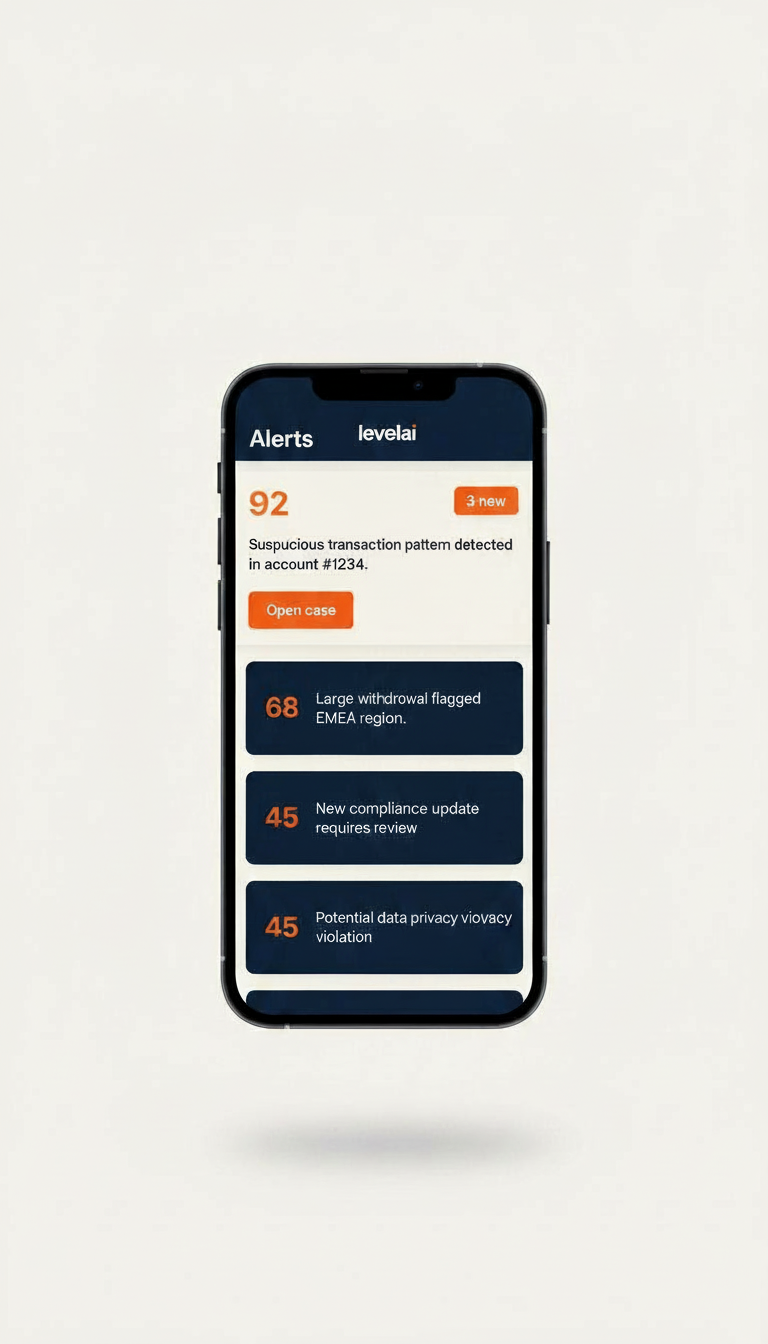
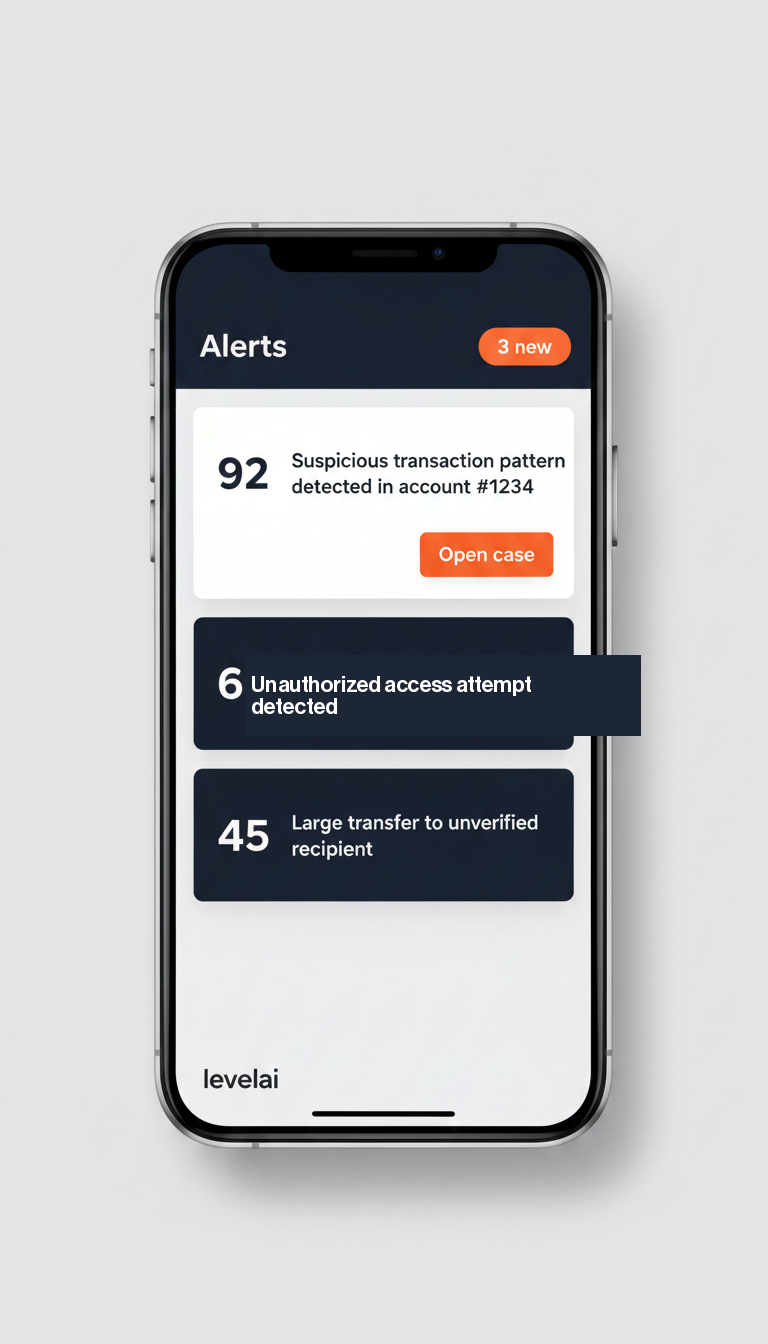
Add Vectorgurus case study and drop yellow tint from Leveai mockups
Add case-vectorgurus.html with hero, overview, metrics, four feature
sections and a quote, telling the story of the AI + human routing
engine, Illustrator delivery pipeline, unified customer chat, and
studio analytics we built for the platform. Promote the Vectorgurus
card on work.html to link into the case, and register the URL in
sitemap.xml.

Regenerate all four Leveai case study mockups on a neutral gray
studio background instead of the earlier cream — the warm off-white
inherited from the LevelAI Figma reference read as a yellow tint next
to the rest of the site chrome.

Both sets of mockups generated with google/nano-banana on Replicate,
brand-color-tuned per case (LevelAI navy + orange, Vectorgurus violet
+ magenta), with residual UI-text spelling errors patched in Pillow
using the self-hosted Neue Haas Grotesk Display faces.

diff --git a/case-vectorgurus.html b/case-vectorgurus.html
@@ -1,0 +1,240 @@
+<!DOCTYPE html>
+<html lang="en">
+<head>
+    <meta charset="UTF-8">
+    <meta name="viewport" content="width=device-width, initial-scale=1.0">
+    <title>Vectorgurus Case Study &mdash; Epimer Labs</title>
+    <meta name="description" content="How we built the AI + human routing engine, delivery pipeline, and analytics that scaled Vectorgurus into a raster-to-vector platform run by both machines and master illustrators.">
+    <meta property="og:title" content="Vectorgurus Case Study &mdash; Epimer Labs">
+    <meta property="og:description" content="How we built the AI + human routing engine, delivery pipeline, and analytics that scaled Vectorgurus into a raster-to-vector platform run by both machines and master illustrators.">
+    <meta property="og:image" content="https://www.epimerlabs.com/images/logo-icon.svg">
+    <link rel="canonical" href="https://www.epimerlabs.com/case-vectorgurus.html">
+    <meta property="og:url" content="https://www.epimerlabs.com/case-vectorgurus.html">
+    <meta property="og:type" content="article">
+    <link rel="icon" type="image/svg+xml" href="images/favicon.svg">
+    <link rel="apple-touch-icon" sizes="180x180" href="images/apple-touch-icon.png">
+    <link rel="manifest" href="site.webmanifest">
+    <link rel="stylesheet" href="css/styles.css">
+</head>
+<body>
+    <!-- Navigation -->
+    <nav class="navbar navbar-dark">
+        <div class="container">
+            <a href="index.html" class="logo"><img src="images/logo-lockup-white.svg" alt="Epimer Labs" class="logo-lockup"></a>
+            <button class="menu-toggle" id="menuToggle" aria-label="Toggle menu"><span></span><span></span><span></span></button>
+            <ul class="nav-menu" id="navMenu">
+                <li><a href="work.html" class="active">Work</a></li>
+                <li><a href="services.html">Services</a></li>
+                <li><a href="about.html">About</a></li>
+                <li><a href="insights.html">Insights</a></li>
+                <li><a href="contact.html" class="nav-cta">Let's Collaborate</a></li>
+            </ul>
+        </div>
+    </nav>
+
+    <!-- Case Hero -->
+    <section class="case-hero">
+        <div class="container">
+            <div class="reveal">
+                <span class="case-hero-overline">Case Study &nbsp;/&nbsp; Vectorgurus</span>
+                <h1>How we built the AI plus human routing engine that turned Vectorgurus into a raster-to-vector platform run by both machines and master illustrators</h1>
+                <span class="case-hero-industry">Industry &mdash; Creative software, on-demand illustration</span>
+                <div class="case-meta-chips">
+                    <span class="case-chip">Product Strategy</span>
+                    <span class="case-chip">ML &amp; Vision</span>
+                    <span class="case-chip">Full-stack Build</span>
+                    <span class="case-chip">Analytics</span>
+                </div>
+            </div>
+        </div>
+    </section>
+
+    <!-- Overview -->
+    <section class="case-overview">
+        <div class="container">
+            <p class="case-overview-lede reveal">Vectorgurus converts raster artwork into clean, production-ready vector files. Their in-house ML model handles most conversions on its own; the intricate work goes to a global bench of vector artists they call gurus. We built the operating system that lets those two workforces run as one.</p>
+            <div class="case-overview-grid reveal">
+                <div>
+                    <span class="case-overline">Challenge</span>
+                    <p>The AI shipped a good vector for most files, but customers with complex artwork were dropping off. Every failed conversion turned into a manual scramble to find the right guru, brief them, and package the deliverable.</p>
+                </div>
+                <div>
+                    <span class="case-overline">Solution</span>
+                    <p>A full platform build: a vision-model complexity check that decides AI or guru on upload, a routing engine that matches gurus to work, a delivery pipeline built around Illustrator, and an analytics layer that runs the studio.</p>
+                </div>
+                <div>
+                    <span class="case-overline">Result</span>
+                    <div class="case-result-number">68%</div>
+                    <p>of orders now resolved end-to-end by AI, with the rest routed to the right guru in under a minute</p>
+                </div>
+            </div>
+        </div>
+    </section>
+
+    <!-- Metrics -->
+    <section class="section">
+        <div class="container">
+            <h2 class="reveal">One platform, two workforces</h2>
+            <div class="case-stats reveal">
+                <div>
+                    <span class="case-stat-number">11h</span>
+                    <p>median turnaround on complex guru redraws, down from three days</p>
+                </div>
+                <div>
+                    <span class="case-stat-number">3&times;</span>
+                    <p>increase in per-guru throughput after the Illustrator delivery pipeline shipped</p>
+                </div>
+                <div>
+                    <span class="case-stat-number">1</span>
+                    <p>customer channel that spans AI support, human gurus, and delivery in one thread</p>
+                </div>
+            </div>
+        </div>
+    </section>
+
+    <!-- Feature 01 -->
+    <section class="case-feature">
+        <div class="container">
+            <div class="case-feature-row">
+                <div class="case-feature-text reveal">
+                    <span class="case-overline">01</span>
+                    <h2>A complexity check that decides AI or guru on upload</h2>
+                    <p>Every file that lands on the platform runs through a vision model that scores its complexity: line density, negative space, curve count, colour separation. Below a threshold the AI vectoriser takes it; above the threshold it flows straight into the guru queue.</p>
+                    <p>The score is visible to customers before they pay. No more waiting on a bad AI result to discover the file needed a human all along.</p>
+                </div>
+                <div class="case-feature-visual reveal">
+                    <img src="images/case-vectorgurus-routing.png" alt="Vectorgurus complexity check routing an intricate mandala to a guru" loading="lazy">
+                </div>
+            </div>
+        </div>
+    </section>
+
+    <!-- Feature 02 -->
+    <section class="case-feature case-feature-tinted">
+        <div class="container">
+            <div class="case-feature-row case-feature-flip">
+                <div class="case-feature-text reveal">
+                    <span class="case-overline">02</span>
+                    <h2>A delivery pipeline built for how gurus actually work</h2>
+                    <p>Gurus live in Illustrator. Their old workflow lived in fifteen browser tabs. We built a queue that pulls new orders straight into their working environment, packages assets on export, and delivers the final files to the customer the moment the guru clicks send.</p>
+                    <p>Payouts, deadlines, and quality checks ride the same rail. A guru now spends their day drawing, not admin.</p>
+                </div>
+                <div class="case-feature-visual reveal">
+                    <img src="images/case-vectorgurus-pipeline.png" alt="Vectorgurus guru delivery queue with Illustrator export" loading="lazy">
+                </div>
+            </div>
+        </div>
+    </section>
+
+    <!-- Feature 03 -->
+    <section class="case-feature">
+        <div class="container">
+            <div class="case-feature-row">
+                <div class="case-feature-text reveal">
+                    <span class="case-overline">03</span>
+                    <h2>One customer thread, from AI answer to human handoff</h2>
+                    <p>We rebuilt the entire chat backend around one idea: the customer should never have to know whether they are talking to a model or a person. The AI support agent answers what it can and cites its source. Anything ambiguous escalates to the matched guru, in the same thread, with the order context already attached.</p>
+                    <p>The vision model runs on every uploaded asset in the chat, so the AI can talk about the actual artwork instead of asking for a description.</p>
+                </div>
+                <div class="case-feature-visual reveal">
+                    <img src="images/case-vectorgurus-chat.png" alt="Vectorgurus unified customer chat with AI support and guru escalation" loading="lazy">
+                </div>
+            </div>
+        </div>
+    </section>
+
+    <!-- Feature 04 -->
+    <section class="case-feature case-feature-tinted">
+        <div class="container">
+            <div class="case-feature-row case-feature-flip">
+                <div class="case-feature-text reveal">
+                    <span class="case-overline">04</span>
+                    <h2>The analytics that run the studio</h2>
+                    <p>The operations dashboard turns the platform into an instrument. Throughput, AI resolution rate, guru utilisation, revenue mix by complexity tier: every lever the leadership team pulls now has a number behind it.</p>
+                    <p>The same layer powers guru-facing views so illustrators see their own performance the way the business does. It also feeds a social automation pipeline that turns finished redraws into shareable before-and-after content without anyone touching a scheduler.</p>
+                </div>
+                <div class="case-feature-visual reveal">
+                    <img src="images/case-vectorgurus-dashboard.png" alt="Vectorgurus studio analytics dashboard" loading="lazy">
+                </div>
+            </div>
+        </div>
+    </section>
+
+    <!-- Quote -->
+    <section class="section">
+        <div class="container">
+            <blockquote class="case-quote reveal">
+                <p>&ldquo;We used to sell a vectoriser. After the rebuild we sell a service where the machine and the human are on the same team, and the customer only sees the result.&rdquo;</p>
+                <cite>Founder, Vectorgurus</cite>
+            </blockquote>
+        </div>
+    </section>
+
+    <!-- CTA -->
+    <section class="cta-section">
+        <div class="container">
+            <div class="cta-content reveal">
+                <h2>Building an AI product that still needs the best humans on the hard cases?</h2>
+                <div class="cta-buttons">
+                    <a href="contact.html" class="btn btn-white">Start Your Project</a>
+                </div>
+            </div>
+        </div>
+    </section>
+
+    <!-- Footer -->
+    <footer class="footer">
+        <div class="container">
+            <div class="footer-top">
+                <div class="footer-brand">
+                    <a href="index.html" class="logo"><img src="images/logo-lockup-white.svg" alt="Epimer Labs" class="logo-lockup"></a>
+                    <p class="footer-tagline">Solving for the exponential.</p>
+                </div>
+            </div>
+            <div class="footer-grid">
+                <div class="footer-column">
+                    <h4>Services</h4>
+                    <ul>
+                        <li><a href="services.html#strategy">Product Strategy</a></li>
+                        <li><a href="services.html#design">UX/UI Design</a></li>
+                        <li><a href="services.html#design">Design Systems</a></li>
+                        <li><a href="services.html#technology">Web &amp; Mobile Development</a></li>
+                        <li><a href="services.html#technology">AI Solutions</a></li>
+                        <li><a href="services.html#growth">Growth &amp; Analytics</a></li>
+                    </ul>
+                </div>
+                <div class="footer-column">
+                    <h4>Company</h4>
+                    <ul>
+                        <li><a href="about.html">About</a></li>
+                        <li><a href="work.html">Work</a></li>
+                        <li><a href="insights.html">Insights</a></li>
+                        <li><a href="careers.html">Careers</a></li>
+                        <li><a href="contact.html">Contact</a></li>
+                    </ul>
+                </div>
+                <div class="footer-column">
+                    <h4>Resources</h4>
+                    <ul>
+                        <li><a href="work.html">Case Studies</a></li>
+                        <li><a href="insights.html">Articles</a></li>
+                    </ul>
+                </div>
+                <div class="footer-column">
+                    <h4>Connect</h4>
+                    <div class="social-links">
+                        <a href="https://www.linkedin.com/company/epimer-labs" aria-label="LinkedIn" target="_blank" rel="noopener">LinkedIn</a>
+                    </div>
+                </div>
+            </div>
+
+            <div class="footer-bottom">
+                <p>&copy; 2026 Epimer Labs. All rights reserved. Screenshots are illustrative product visualisations, not the live Vectorgurus product.</p>
+                <p><a href="privacy.html" style="color: var(--gray-400);">Privacy Policy</a> | <a href="terms.html" style="color: var(--gray-400);">Terms of Service</a></p>
+            </div>
+        </div>
+    </footer>
+
+    <script src="js/main.js"></script>
+</body>
+</html>

diff --git a/work.html b/work.html
@@ -117,18 +117,19 @@
                 </div>
 
                 <div class="case-study reveal">
-                    <span class="case-label">Startup</span>
+                    <span class="case-label">Creative software</span>
                     <h3>Vectorgurus</h3>
                     <div class="content-with-image-right">
                         <div class="text-content">
                             <div class="case-study-content">
                                 <div class="case-section">
-                                    <p>End-to-end product strategy, design, and build for a growing startup. The full Epimer Labs model in one engagement: one team carrying the product from first insight to production code.</p>
+                                    <p>The full platform for a raster-to-vector startup: a vision-model complexity check that decides AI or human on upload, an Illustrator delivery pipeline for the guru bench, and the analytics that run the studio.</p>
+                                    <p><a href="case-vectorgurus.html" class="link-arrow">View Case Study</a></p>
                                 </div>
                             </div>
                         </div>
                         <div class="image-content">
-                            <img src="images/work-vectorgurus.png" alt="Vectorgurus product app design" loading="lazy">
+                            <a href="case-vectorgurus.html"><img src="images/case-vectorgurus-routing.png" alt="Vectorgurus complexity check routing an intricate raster to a guru" loading="lazy"></a>
                         </div>
                     </div>
                 </div>
